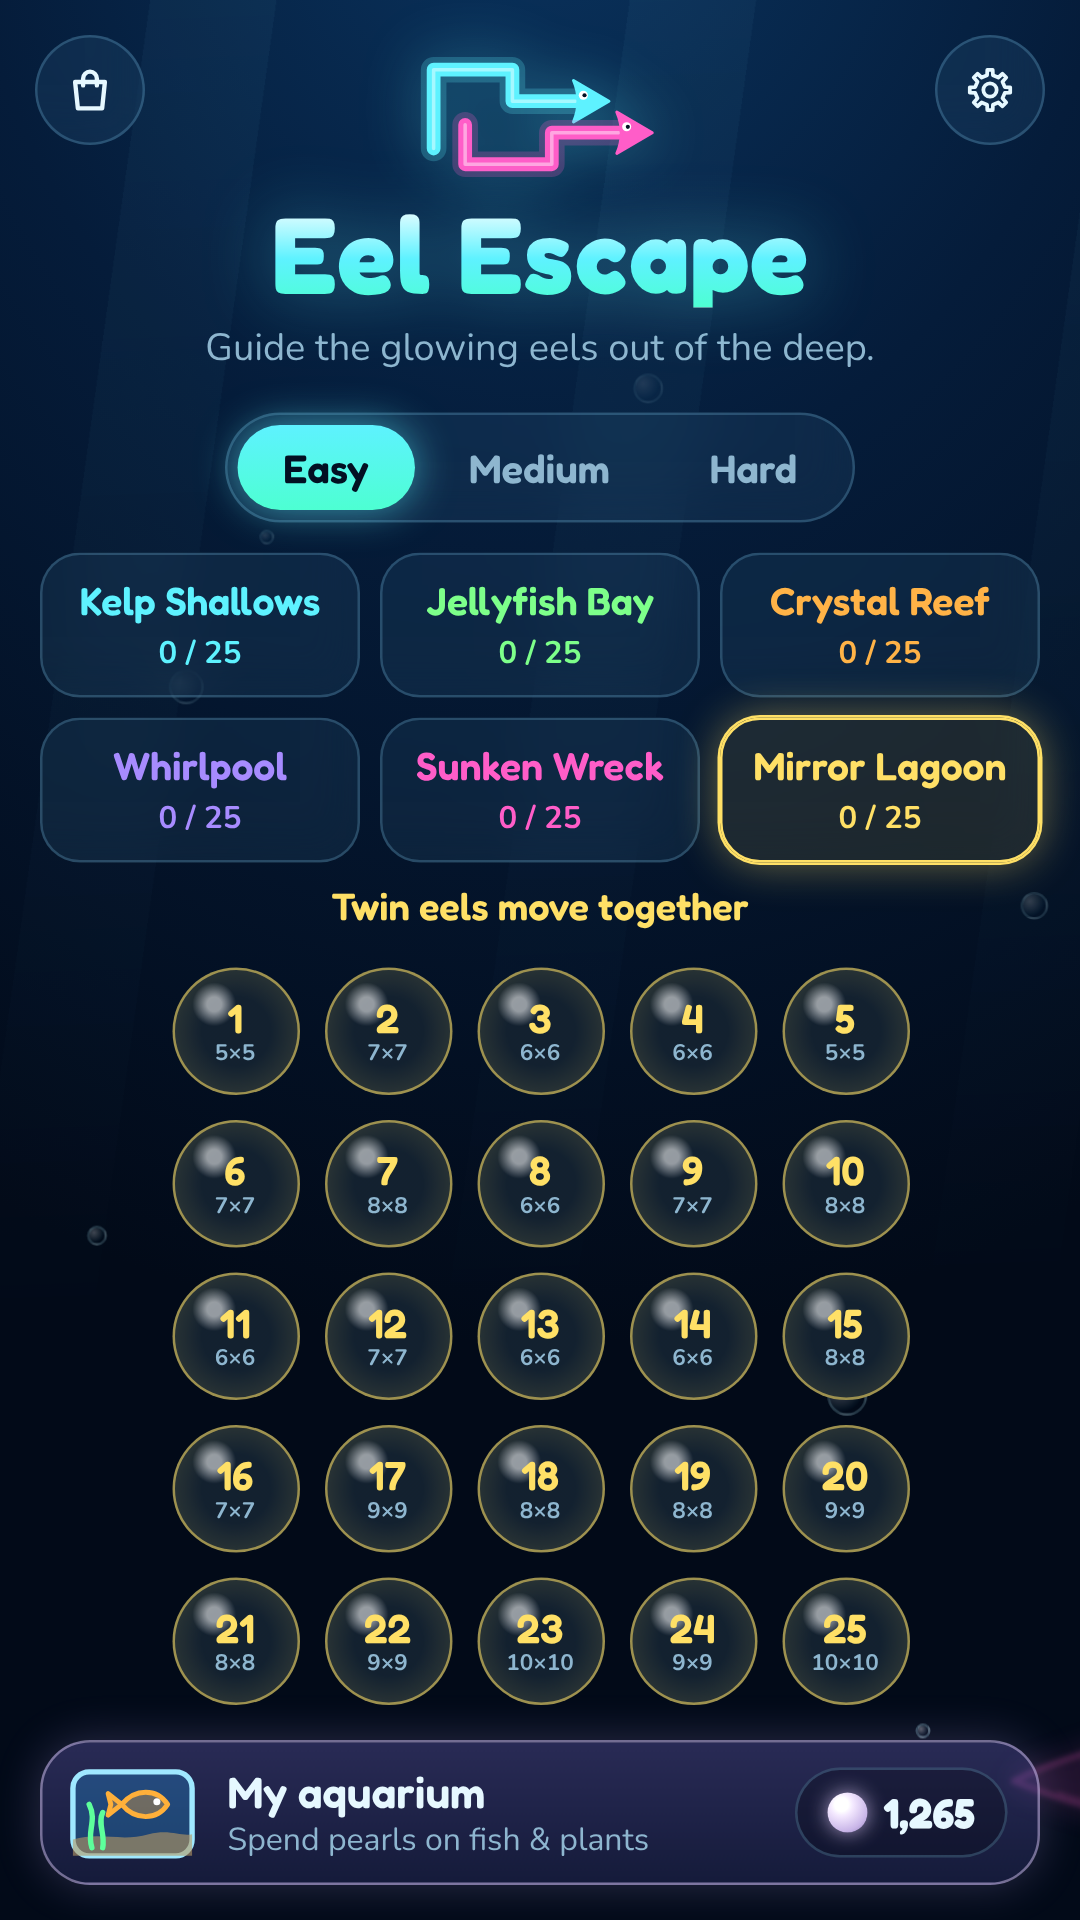
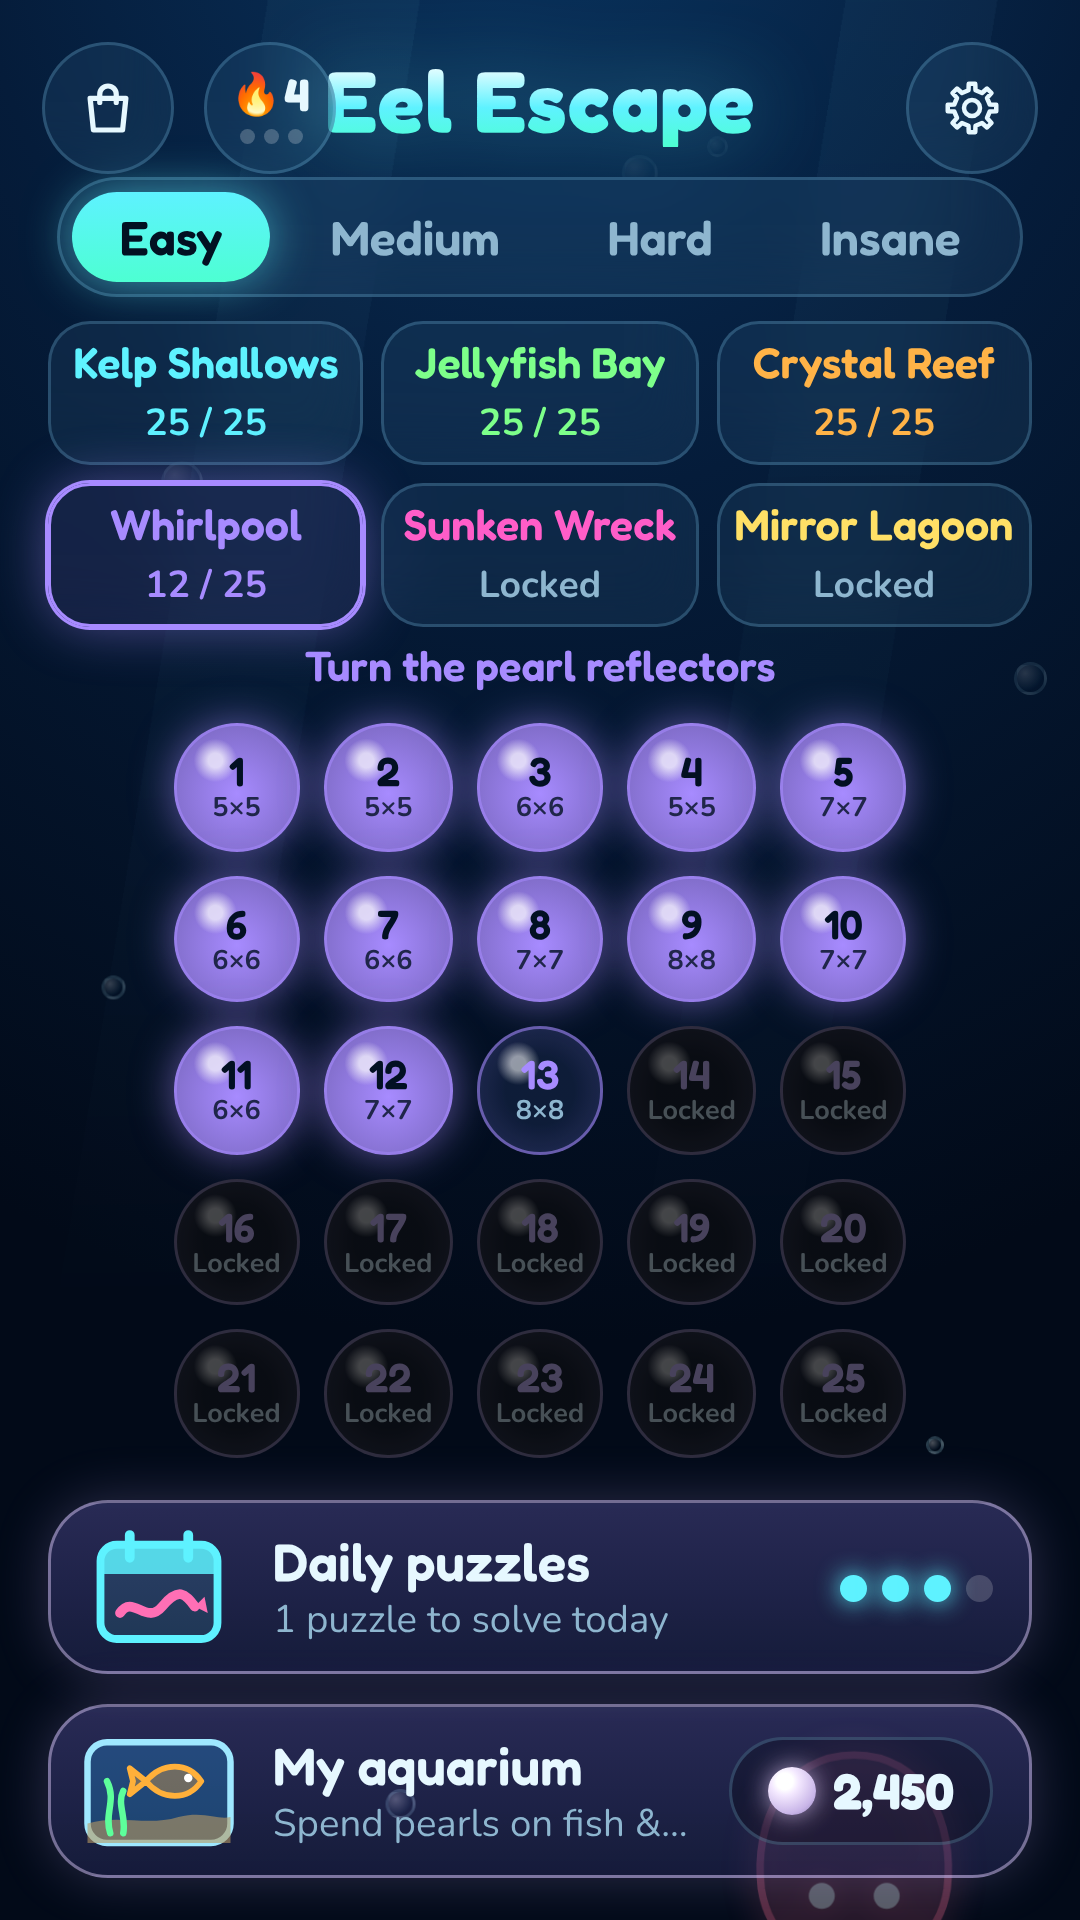
Release prep: remove the Unlock all levels switch; new store listing and screenshots; Santa daily picture
- The temporary "Unlock all levels" setting is gone (test builds can still be
  made with every level open from the Android build workflow).
- Store listing: 600 levels, four difficulties, daily picture puzzles, Pearl
  Rush, any number of tanks.
- Eight new 1080x1920 screenshots (menu, two puzzles, a daily picture reveal,
  the daily puzzles, two tanks, the fish shop), taken by the new
  tools/store-screenshots.js.
- 2 December's daily puzzles: Santa (Easy 12, Medium 29, Hard 44, Insane 350
  eels), loaded into the database in place of the placeholder.

Claude-Session: https://claude.ai/code/session_014yXsDqscejDKHY3cYjMYJr

diff --git a/tools/store-screenshots.js b/tools/store-screenshots.js
@@ -1,0 +1,58 @@
+// Takes the Play Store phone screenshots (1080 x 1920) into the folder given:
+//   python3 -m http.server 8765 &   then   node tools/store-screenshots.js store/screenshots
+// It seeds a player with progress, two stocked tanks and a solved daily picture.
+const { chromium } = require('playwright');
+const fs = require('fs');
+const OUT = process.argv[2];
+const santa = JSON.parse(fs.readFileSync('levels-daily/pictures/2026-12-02.json', 'utf8'));
+const it = (uid, type, x, extra = {}) => ({ uid, type, x, color: 0, ...extra });
+const marine = ['shark', 'clownfish', 'clownfish', 'bluetang', 'yellowtang', 'puffer', 'seahorse', 'lionfish', 'crab', 'crab', 'chromis', 'octopus'].map((t, i) => it(i + 1, t, 0.08 + 0.075 * i))
+  .concat(['kelp', 'anemone', 'featherduster', 'seagrass', 'caulerpa'].map((t, i) => it(20 + i, t, [0.06, 0.3, 0.55, 0.78, 0.93][i])))
+  .concat(['coral', 'starfish', 'clam', 'shell'].map((t, i) => it(30 + i, t, [0.2, 0.45, 0.68, 0.86][i])));
+const tropical = ['angel', 'angel', 'discus', 'betta', 'gourami', 'tetra', 'tetra', 'tetra', 'guppy', 'cory'].map((t, i) => it(i + 1, t, 0.08 + 0.075 * i))
+  .concat(['hairgrass', 'crypt', 'ludwigia', 'fern', 'tigerlotus'].map((t, i) => it(20 + i, t, [0.08, 0.3, 0.5, 0.72, 0.92][i])))
+  .concat(['driftwood', 'chest', 'ship'].map((t, i) => it(30 + i, t, [0.25, 0.6, 0.82][i])));
+(async () => {
+  const b = await chromium.launch();
+  const ctx = await b.newContext({ viewport: { width: 360, height: 640 }, deviceScaleFactor: 3 });
+  await ctx.route('**/*supabase.co/**', (r) => r.abort());
+  await ctx.route('**/game.js*', (r) => r.fulfill({ contentType: 'application/javascript', body: fs.readFileSync('game.js', 'utf8').replace('{ playDaily });', '{ playDaily, __start: (t, g, i) => { tier = t; startLevel(g, i, { fresh: true }); }, __win: () => state.lines.forEach((l) => { l.mode = "gone"; }), __tap: (k) => { const l = state.lines[k]; } });') }));
+  await ctx.addInitScript(({ santa, marine, tropical }) => {
+    const t = new Date().toLocaleDateString('en-CA');
+    const day = (n) => { const d = new Date(); d.setDate(d.getDate() - n); return d.toLocaleDateString('en-CA'); };
+    const set = Object.fromEntries(santa.map((r) => [r.difficulty, { level: r.level, solution: r.solution, title: r.title, picture: r.picture }]));
+    localStorage.setItem('eel-daily-puzzles-v1', JSON.stringify({ [t]: set, [day(1)]: set, [day(2)]: set }));
+    localStorage.setItem('eel-daily-seen-v1', JSON.stringify({ seen: t, told: t }));
+    localStorage.setItem('eel-daily-done-v1', JSON.stringify({ solved: { [t + ':0']: 1, [t + ':1']: 1, [t + ':2']: 1, [day(1) + ':0']: 1, [day(1) + ':1']: 1, [day(1) + ':2']: 1, [day(1) + ':3']: 1, [day(2) + ':0']: 1, [day(2) + ':1']: 1, [day(2) + ':2']: 1, [day(2) + ':3']: 1 }, bonus: {} }));
+    localStorage.setItem('arrow-escape-wallet-v1', JSON.stringify({ pearls: 2450, owned: 5, streak: { last: day(1), count: 4, today: t, levels: 0, greeted: t, savedFor: '' }, tankSeq: 2, shownTank: 't1', tanks: { t1: { type: 'marine', items: marine, next: 40 }, t2: { type: 'tropical', items: tropical, next: 40 } } }));
+    // Some progress, so the menu shows open groups.
+    const done = []; for (let i = 0; i < 25; i++) { done.push(`0-0-${i}`, `0-1-${i}`, `0-2-${i}`); } for (let i = 0; i < 12; i++) done.push(`1-0-${i}`, `0-3-${i}`);
+    localStorage.setItem('arrow-escape-progress-v2', JSON.stringify({ completed: done, last: { tier: 0, group: 3, index: 12 } }));
+  }, { santa, marine, tropical });
+  const p = await ctx.newPage();
+  const clean = async () => { await p.click('button:has-text("Dismiss")', { timeout: 600 }).catch(() => {}); await p.evaluate(() => document.querySelectorAll('.shop-overlay, .streak-party, .toast').forEach((o) => o.remove())); };
+  await p.goto('http://localhost:8765/index.html'); await p.waitForTimeout(2500); await clean(); await p.waitForTimeout(2500);
+  await p.screenshot({ path: `${OUT}/1-menu.png` });
+  for (const [name, t, g, i] of [['2-puzzle', 1, 2, 6], ['3-twins', 1, 5, 9]]) {
+    await p.evaluate(([t, g, i]) => ArrowGame.__start(t, g, i), [t, g, i]); await p.waitForTimeout(700); await clean(); await p.waitForTimeout(900);
+    await p.screenshot({ path: `${OUT}/${name}.png` });
+  }
+  // The day's picture revealed by solving the Insane daily puzzle.
+  await p.evaluate(() => ArrowDaily.play(ArrowDaily.localDay(0), 3)); await p.waitForTimeout(800); await clean();
+  await p.evaluate(() => ArrowGame.__win()); await p.waitForTimeout(1600); await clean(); await p.waitForTimeout(2800);
+  await p.evaluate(() => { document.querySelectorAll('.rush-btn').forEach((e) => e.remove()); document.getElementById('dialogText').textContent = ''; document.querySelector('#overlay .dialog').scrollTop = 0; });
+  await p.waitForTimeout(300);
+  await p.screenshot({ path: `${OUT}/4-daily-picture.png` });
+  await p.evaluate(() => { document.getElementById('overlay').hidden = true; document.querySelector('#menuBtn').click(); }); await p.waitForTimeout(600); await clean();
+  await p.evaluate(() => ArrowDaily.openPuzzles(true)); await p.waitForTimeout(600);
+  await p.evaluate(() => { const tabs = document.querySelectorAll('.daily-day-tab'); if (tabs[0]) tabs[0].click(); }); await p.waitForTimeout(400);
+  await p.screenshot({ path: `${OUT}/5-daily.png` });
+  await p.evaluate(() => document.querySelectorAll('.shop-overlay').forEach((o) => o.remove())); await p.waitForTimeout(300);
+  await p.evaluate(() => ArrowAquarium.open()); await p.waitForTimeout(4000); await clean();
+  await p.screenshot({ path: `${OUT}/6-marine.png` });
+  await p.click('#aqNext'); await p.waitForTimeout(4000); await clean();
+  await p.screenshot({ path: `${OUT}/7-tropical.png` });
+  await p.click('[data-cat="fish"]'); await p.waitForTimeout(800);
+  await p.screenshot({ path: `${OUT}/8-fish-shop.png` });
+  await b.close();
+})();

diff --git a/index.html b/index.html
@@ -133,12 +133,6 @@
           <small>Fish, turtles and whales swimming in the background</small></span>
           <input type="checkbox" id="setCreatures" class="switch" role="switch"></label>
       </div>
-      <!-- TEMPORARY (testing only): remove this setting before release. -->
-      <div class="setting">
-        <label class="setting-row" for="setUnlockAll"><span class="setting-name">Unlock all levels
-          <small>Testing only: opens every level on every difficulty</small></span>
-          <input type="checkbox" id="setUnlockAll" class="switch" role="switch"></label>
-      </div>
       <div class="settings-links">
         <button id="privacyChoices" class="link-btn" hidden>Privacy choices</button>
         <a href="https://redcurtain.com.au/eel-escape/privacy.html" target="_blank" rel="noopener" class="link-btn">Privacy policy</a>
@@ -167,7 +161,7 @@
   <script src="config.js?v=9337a023"></script>
   <script src="wallet.js?v=87871973"></script>
   <script src="pearl-pour.js?v=a7e1a5a2"></script>
-  <script src="settings.js?v=afd583ae"></script>
+  <script src="settings.js?v=b86c4aea"></script>
   <script src="audio.js?v=2811ff0e"></script>
   <script src="rules.js?v=5cf1ab15"></script>
   <script src="levels-data.js?v=a267e1e6"></script>
@@ -180,6 +174,6 @@
   <script src="aquarium-items.js?v=8cf7394e"></script>
   <script src="aquarium.js?v=f4b877fe"></script>
   <script src="daily.js?v=5d1b4b74"></script>
-  <script src="game.js?v=95ee15a5"></script>
+  <script src="game.js?v=87b02595"></script>
 </body>
 </html>

diff --git a/game.js b/game.js
@@ -158,9 +158,7 @@
   // before it (same difficulty) is done, and once the same group is done on the
   // difficulty below (Medium after Easy, Hard after Medium).
   // (The testUnlockAll setting opens everything, for testing only.)
-  // (TEMPORARY: the "Unlock all levels" setting does the same, for testing; remove before release.)
-  const unlockAll = () => !!(window.ArrowConfig && window.ArrowConfig.get('testUnlockAll') === true) ||
-    !!(window.ArrowSettings && window.ArrowSettings.get('unlockAll'));
+  const unlockAll = () => !!(window.ArrowConfig && window.ArrowConfig.get('testUnlockAll') === true);
   const doneIn = (t, g) => {
     const grp = (TIERS[t] && TIERS[t].groups[g]);
     return grp ? grp.levels.filter((_, i) => progress.completed.includes(`${t}-${g}-${i}`)).length : 0;
@@ -2374,8 +2372,6 @@
     startLevel(0, 0, { fresh });
   }
   window.ArrowGame = Object.assign(window.ArrowGame || {}, { playDaily });
-  // TEMPORARY: the "Unlock all levels" setting redraws the menu straight away.
-  if (window.ArrowSettings) window.ArrowSettings.onChange((name) => { if (name === 'unlockAll' && screens.menu.classList.contains('active')) renderMenu(); });
 
   if (progress.last && progress.last.tier < REAL_TIERS && TIERS[progress.last.tier]) { tier = progress.last.tier; menuGroup = progress.last.group; }
   else { tier = 0; menuGroup = 0; }

diff --git a/settings.js b/settings.js
@@ -14,8 +14,6 @@
     sfxVol: 80,
     // Swimming creatures start off for players whose device asks for less motion.
     creatures: !reducedMotion,
-    // TEMPORARY (testing only, remove before release): every level open.
-    unlockAll: false,
   };
   let values = { ...DEFAULTS };
   try {
@@ -43,7 +41,7 @@
     const $ = (id) => document.getElementById(id);
     const overlay = $('settingsOverlay');
     if (!overlay) return;
-    const toggles = { setMusic: 'music', setSfx: 'sfx', setCreatures: 'creatures', setUnlockAll: 'unlockAll' };
+    const toggles = { setMusic: 'music', setSfx: 'sfx', setCreatures: 'creatures' };
     const sliders = { setMusicVol: 'musicVol', setSfxVol: 'sfxVol' };
     let opener = null;
 

diff --git a/store/listing.md b/store/listing.md
@@ -15,7 +15,7 @@ Slide the glowing eels free, one by one, then fill your own aquarium with fish.
 
 Untangle the deep. Every eel faces a way out, but they're all in each other's way. Work out the right order, slide them free one by one, and clear the board.
 
-Eel Escape is a calm, clever puzzle game with 450 levels and an aquarium of your own to build as you play.
+Eel Escape is a calm, clever puzzle game with 600 levels, four new daily puzzles every day, and an aquarium of your own to build as you play.
 
 🐍 SIMPLE TO PLAY, HARD TO MASTER
 • Tap an eel to send it swimming out, or slide it part of the way to make room for another.
@@ -29,13 +29,19 @@ Eel Escape is a calm, clever puzzle game with 450 levels and an aquarium of your
 • Whirlpool: turn the reflectors yourself to aim eels at a way out.
 • Sunken Wreck: rest an eel on a plate to open gates of the same colour.
 • Mirror Lagoon: twin eels that always move together.
-Three difficulties, Easy, Medium and Hard, with 25 levels in every region.
+Four difficulties, from Easy to Insane, with 25 levels in every region, each with its own colours.
+
+📅 DAILY PICTURE PUZZLES
+• Four new puzzles every day, Easy to Insane, in the colours of a hidden picture.
+• Solve the Insane puzzle to reveal the day's picture, made entirely of eels.
+• Missed a day? Catch up on the last week's puzzles.
 
 🐠 BUILD YOUR AQUARIUM
-• Earn pearls for every level you finish, and more for solving it in the fewest moves.
-• Solve 3 levels a day for a daily pearl bonus that grows with your streak, with a big bonus every 7th day.
-• Spend them on a goldfish tank, a tropical tank and a marine tank.
-• Fill each one with fish, swaying plants and decorations, from snails and guppies to a reef shark.
+• Earn pearls for every level and daily puzzle you solve: bigger puzzles pay more.
+• Solve 3 levels a day for a daily bonus that grows with your streak, with a big bonus every 7th day.
+• Start a Pearl Rush for double pearls for 10 minutes.
+• Buy as many goldfish, tropical and marine tanks as you like.
+• Fill them with fish, swaying plants and decorations, from snails and guppies to a reef shark.
 • Fish school together, chase their food, and dart away if you tap them. Crabs scuttle into their cave to hide.
 • Arrange everything just how you like it, then drag your finger through the water and watch the fish follow.
 
@@ -46,7 +52,7 @@ Three difficulties, Easy, Medium and Hard, with 25 levels in every region.
 🎧 RELAXING BY DESIGN
 • Calm underwater music and gentle sound effects.
 • Glowing sea creatures drift by in the background (they can be turned off).
-• No timers, no lives, no pressure.
+• No lives and no pressure: play at your own pace.
 
 Eel Escape is free to play, with optional ads and in-app purchases (remove ads, hint packs and pearl packs).
 
@@ -70,9 +76,13 @@ Eel Escape is free to play, with optional ads and in-app purchases (remove ads, 
   1. store/screenshots/1-menu.png
   2. store/screenshots/2-puzzle.png
   3. store/screenshots/3-twins.png
-  4. store/screenshots/4-marine.png
-  5. store/screenshots/5-tropical.png
-  6. store/screenshots/6-fish-shop.png
+  4. store/screenshots/4-daily-picture.png
+  5. store/screenshots/5-daily.png
+  6. store/screenshots/6-marine.png
+  7. store/screenshots/7-tropical.png
+  8. store/screenshots/8-fish-shop.png
+  (Retake them with `node tools/store-screenshots.js store/screenshots`, with
+  `python3 -m http.server 8765` running in the repository.)
 
 The art is made by `node tools/make-art.js`; the app's own icons and splash
 screens come from it with `npx @capacitor/assets generate`.
